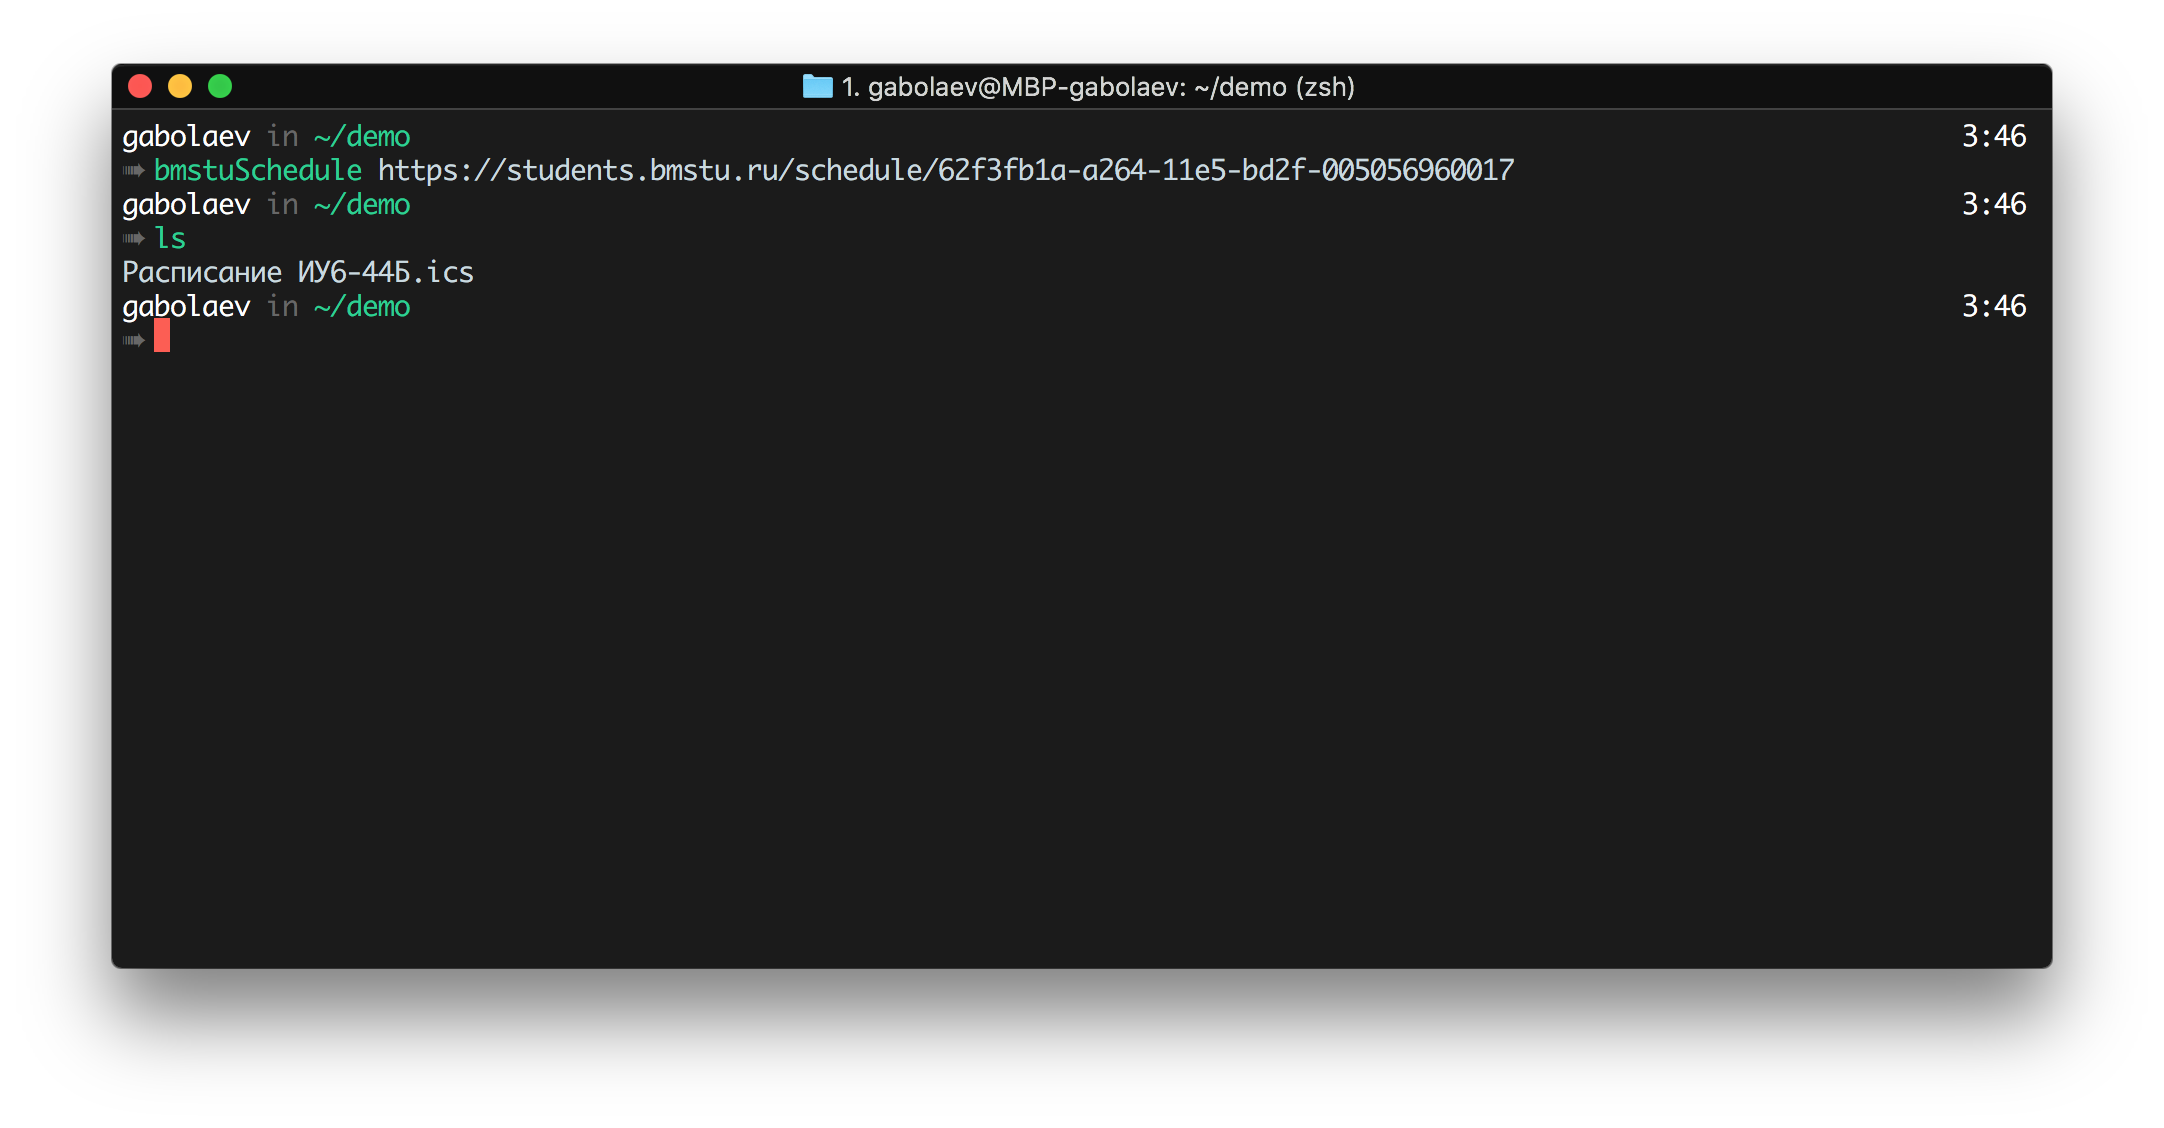
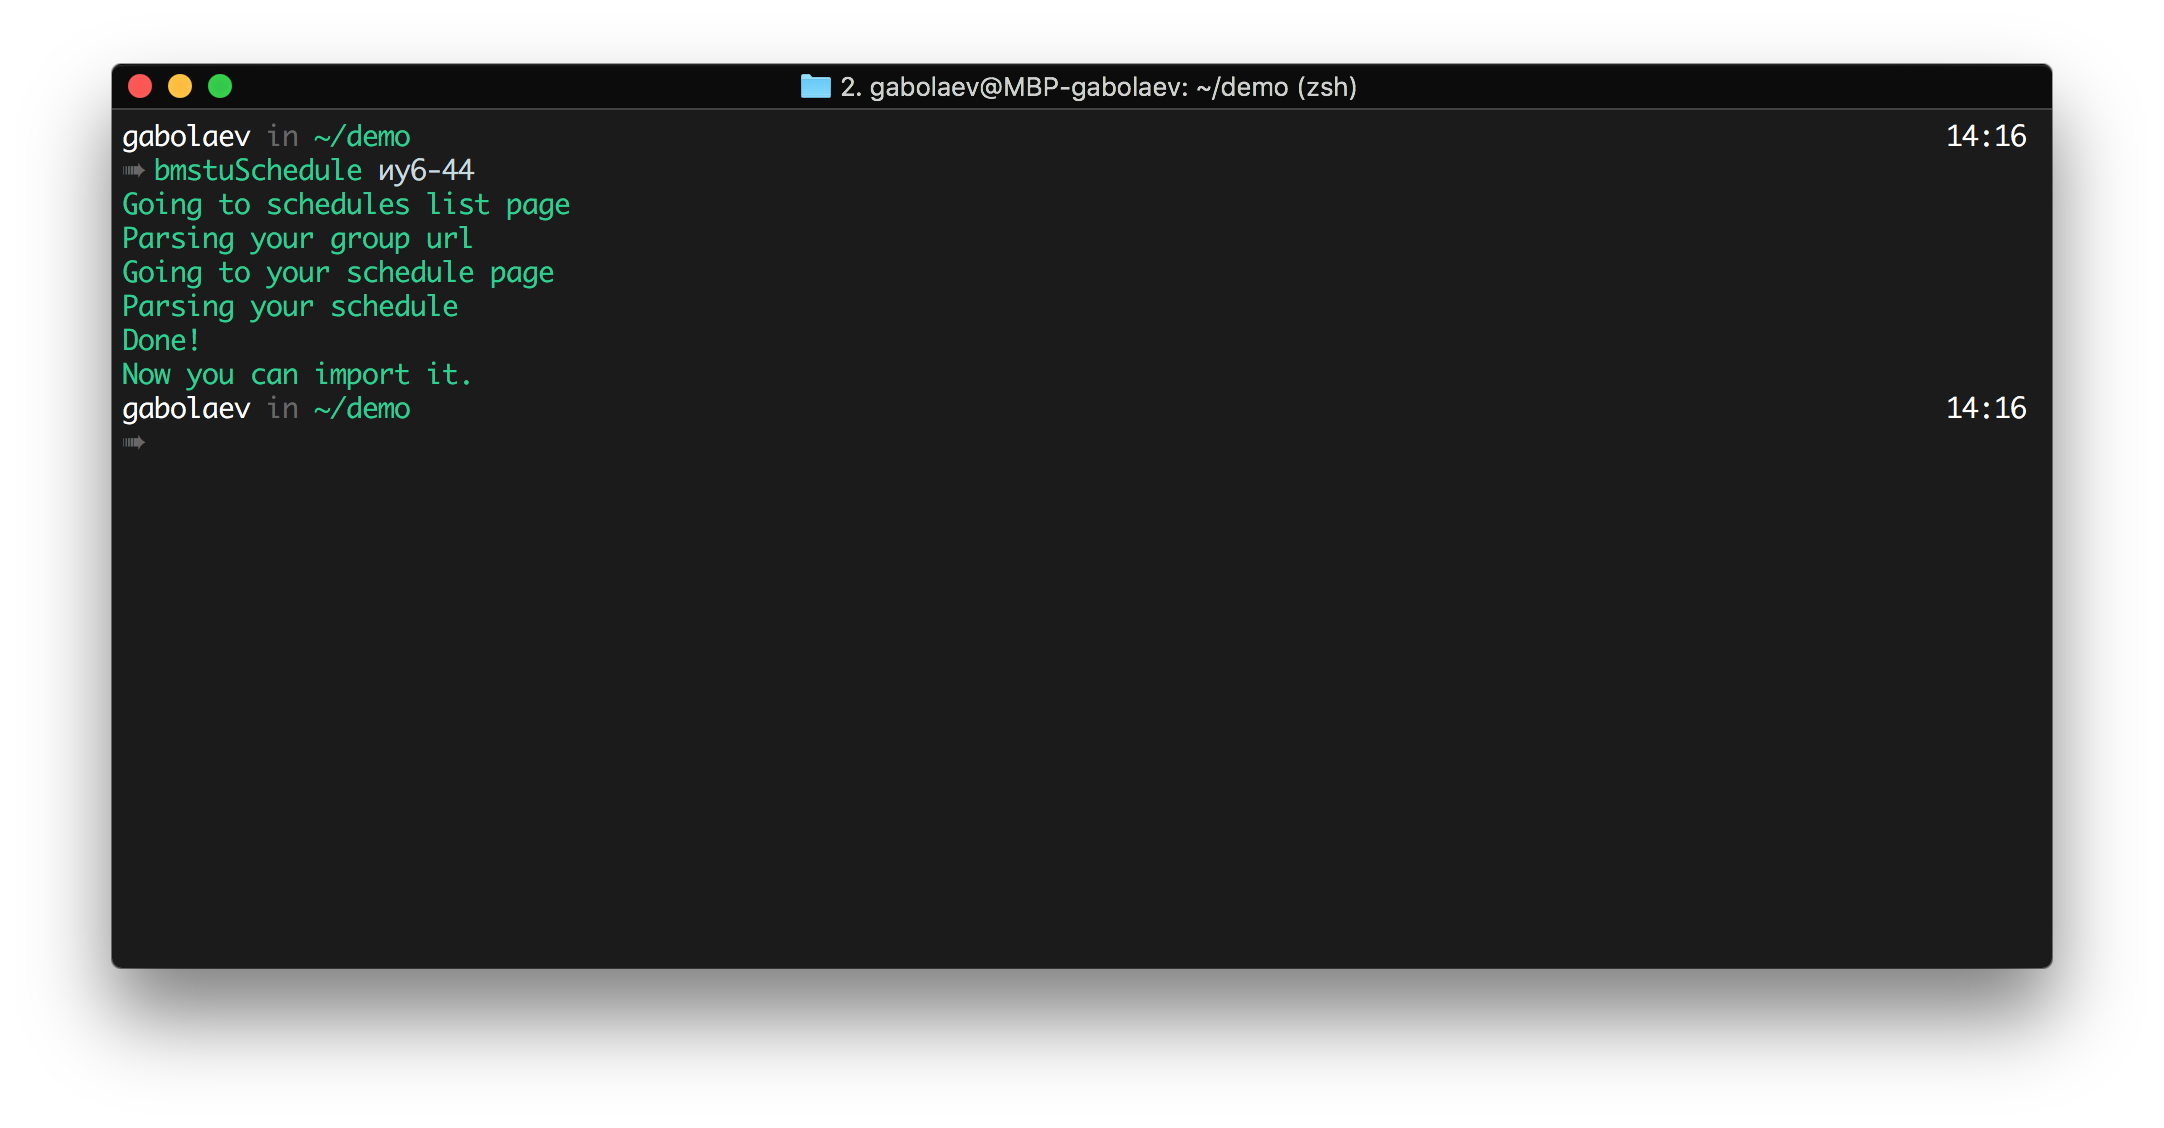
Update README.md

diff --git a/README.md b/README.md
@@ -5,9 +5,9 @@
 pip3 install bmstuSchedule
 ```
 #### How to use:
-##### 1. Generate the result.isc file by passing the URL of your schedule
+##### 1. Generate the result.isc file by passing your group code
 ```bash
-bmstuSchedule https://students.bmstu.ru/schedule/62f3fb1a-a264-11e5-bd2f-005056960017
+bmstuSchedule иу6-44
 ```
 <img src="https://github.com/gabolaev/bmstuSchedule/blob/master/src/step1.png">
 
